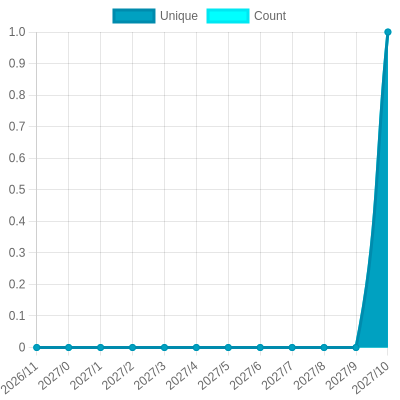
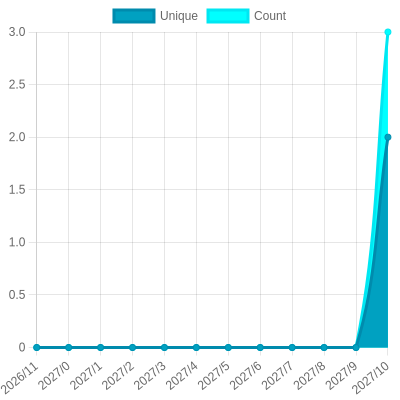
Update views

diff --git a/readme/487127907/year.md b/readme/487127907/year.md
@@ -23,10 +23,10 @@
 			<code>2026/11/1</code>
 		</td>
 		<td>
-			<code>1</code>
+			<code>2</code>
 		</td>
 		<td>
-			<code>1</code>
+			<code>3</code>
 		</td>
 	</tr>
 	<tr>
@@ -153,7 +153,7 @@
 </table>
 
 </details>
-<small><i>Last updated on 2026/11/20 6:53 AM UTC</i></small>
+<small><i>Last updated on 2026/11/20 7:54 PM UTC</i></small>
 
 ## ✂Copy and 📋 Paste
 ### SVG Badge

diff --git a/README.md b/README.md
@@ -37,7 +37,7 @@ The project created and maintained by [gayanvoice](https://github.com/gayanvoice
 	</tr>
 </table>
 
-<small><i>Last updated on 2026/11/20 6:53 AM UTC</i></small>
+<small><i>Last updated on 2026/11/20 7:55 PM UTC</i></small>
 
 ## ✂Copy and 📋 Paste
 ### Total Views Badge
